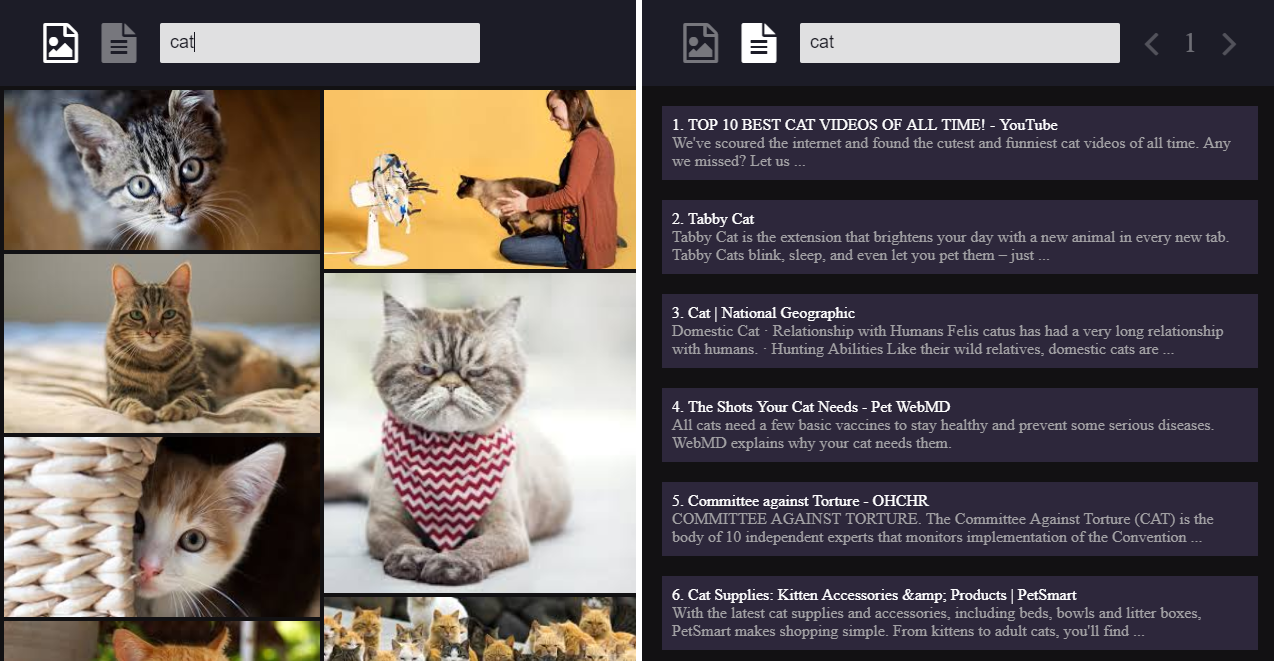
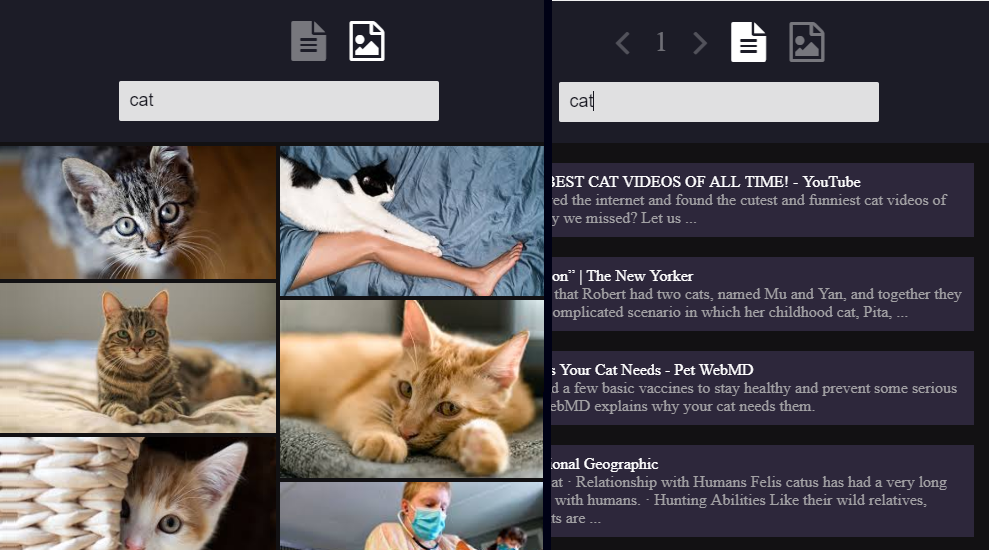
cleanup

diff --git a/app/index.html b/app/index.html
@@ -18,16 +18,18 @@
 
 <body>
   <div class="wrap">
-    <div id="loader" class="hide"></div>
-    <i id="image-option" class="fa fa-file-image-o on" aria-hidden="true"></i>
-    <i id="web-option" class="fa fa-file-text" aria-hidden="true"></i>
-    <input id="search_input" type="text" class="searchTerm" placeholder="cat or dog?">
-
+    <div id="loader" class="hide"></div>  
     <div id="page-settings" class="hide">
       <i id="page-num-left" class="fa fa-angle-left"></i>
       <div id="page-num">1</div>
       <i id="page-num-right" class="fa fa-angle-right"></i>
-    </div>
+    </div>      
+    <i id="web-option" class="fa fa-file-text" aria-hidden="true"></i>
+    <i id="image-option" class="fa fa-file-image-o on" aria-hidden="true"></i>
+    <input id="search_input" type="text" class="searchTerm" placeholder="cat or dog?">
+
+
+   
   </div>
   
   <div id="web-grid" class="hide"></div>

diff --git a/app/js/index.js b/app/js/index.js
@@ -36,7 +36,7 @@ image_btn.addEventListener("click", function() {
   web_btn.classList.remove("on")
   web_grid.classList.add("hide")
   img_grid.classList.remove("hide")
-  page_set.className="hide"
+  page_set.classList.add("hide")
 });
 
 web_btn.addEventListener("click", function() {
@@ -103,7 +103,6 @@ let extractLinks = function(html) {
       img.setAttribute("itemprop", "associatedMedia")
       img.setAttribute("itemtype", "http://schema.org/ImageObject")
       img.setAttribute("itemscope", true)
-      img.className = "grid-item"
 
       img.innerHTML = `          
                 <a href="https://` + m[4] + `" itemprop="contentUrl" data-size="` + m[6] + `x` + m[5] + `">

diff --git a/app/styles.css b/app/styles.css
@@ -91,6 +91,7 @@ user-select: none; /* Standard */
 
 
 /* https://css-tricks.com/seamless-responsive-photo-grid/ */
+
  
 figure {
   margin: 0;
@@ -99,6 +100,7 @@ figure {
 
 #img-grid {
   padding-top: 2px;
+  margin-right: 8px;
   padding-bottom: 2px;
   line-height: 0;
   -webkit-column-count: 5;
